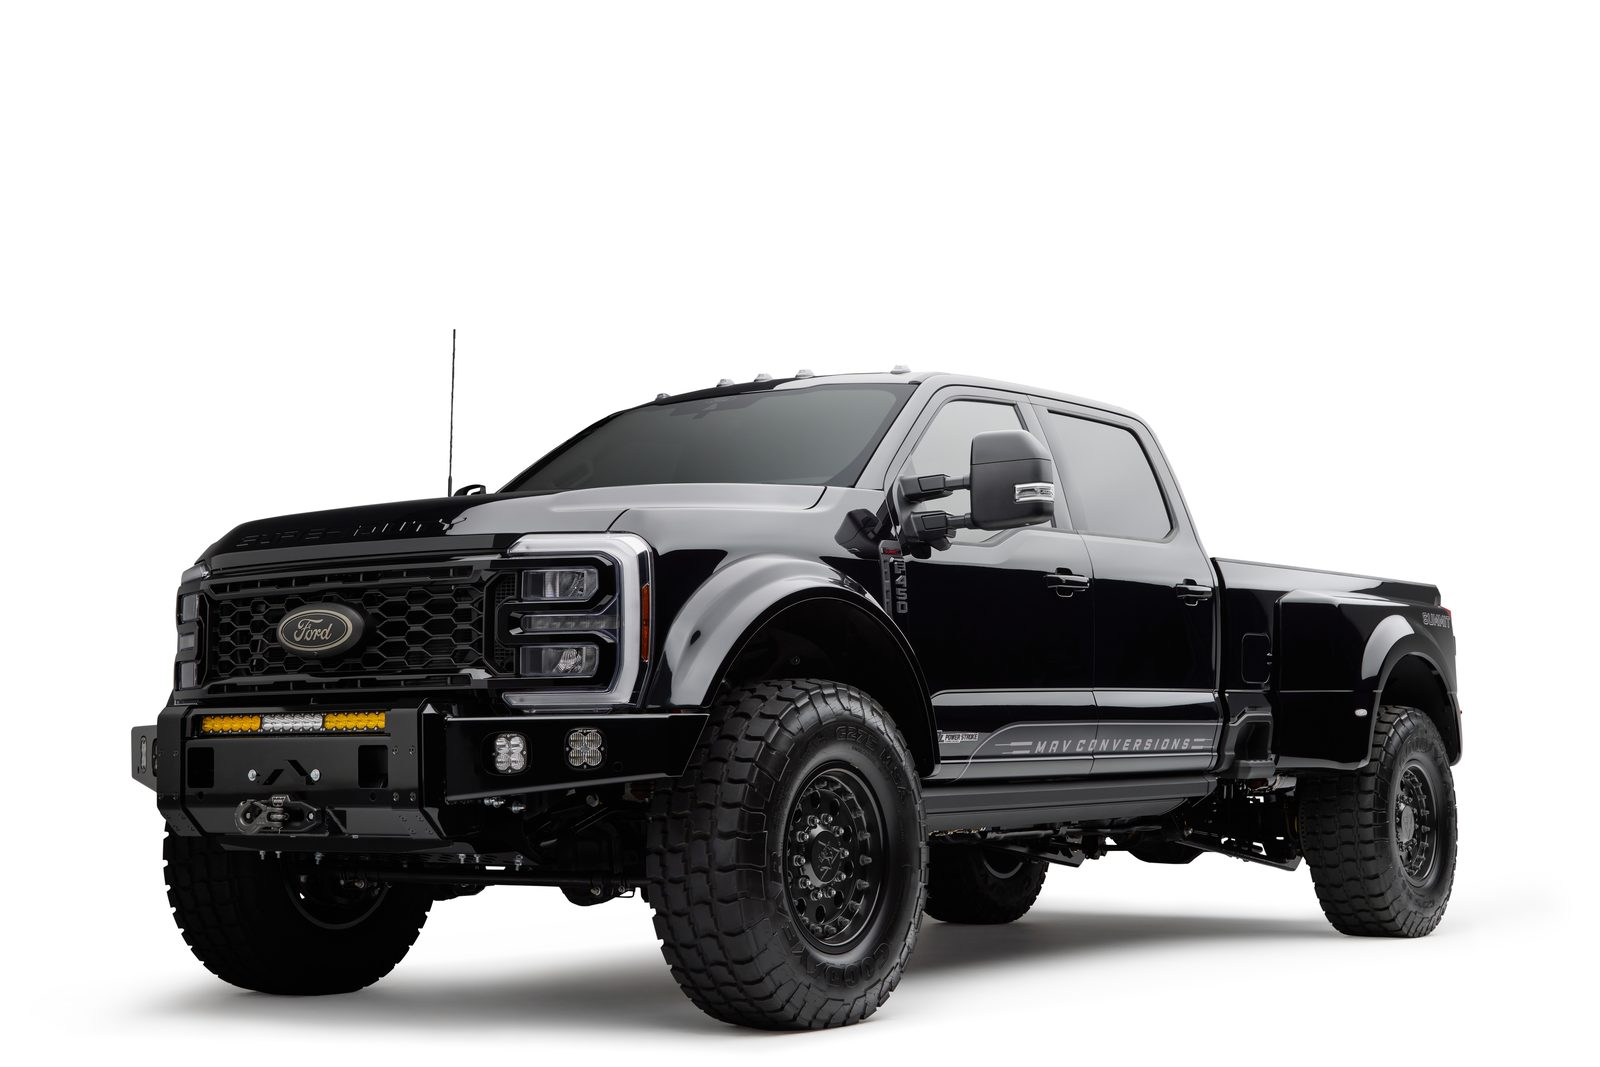
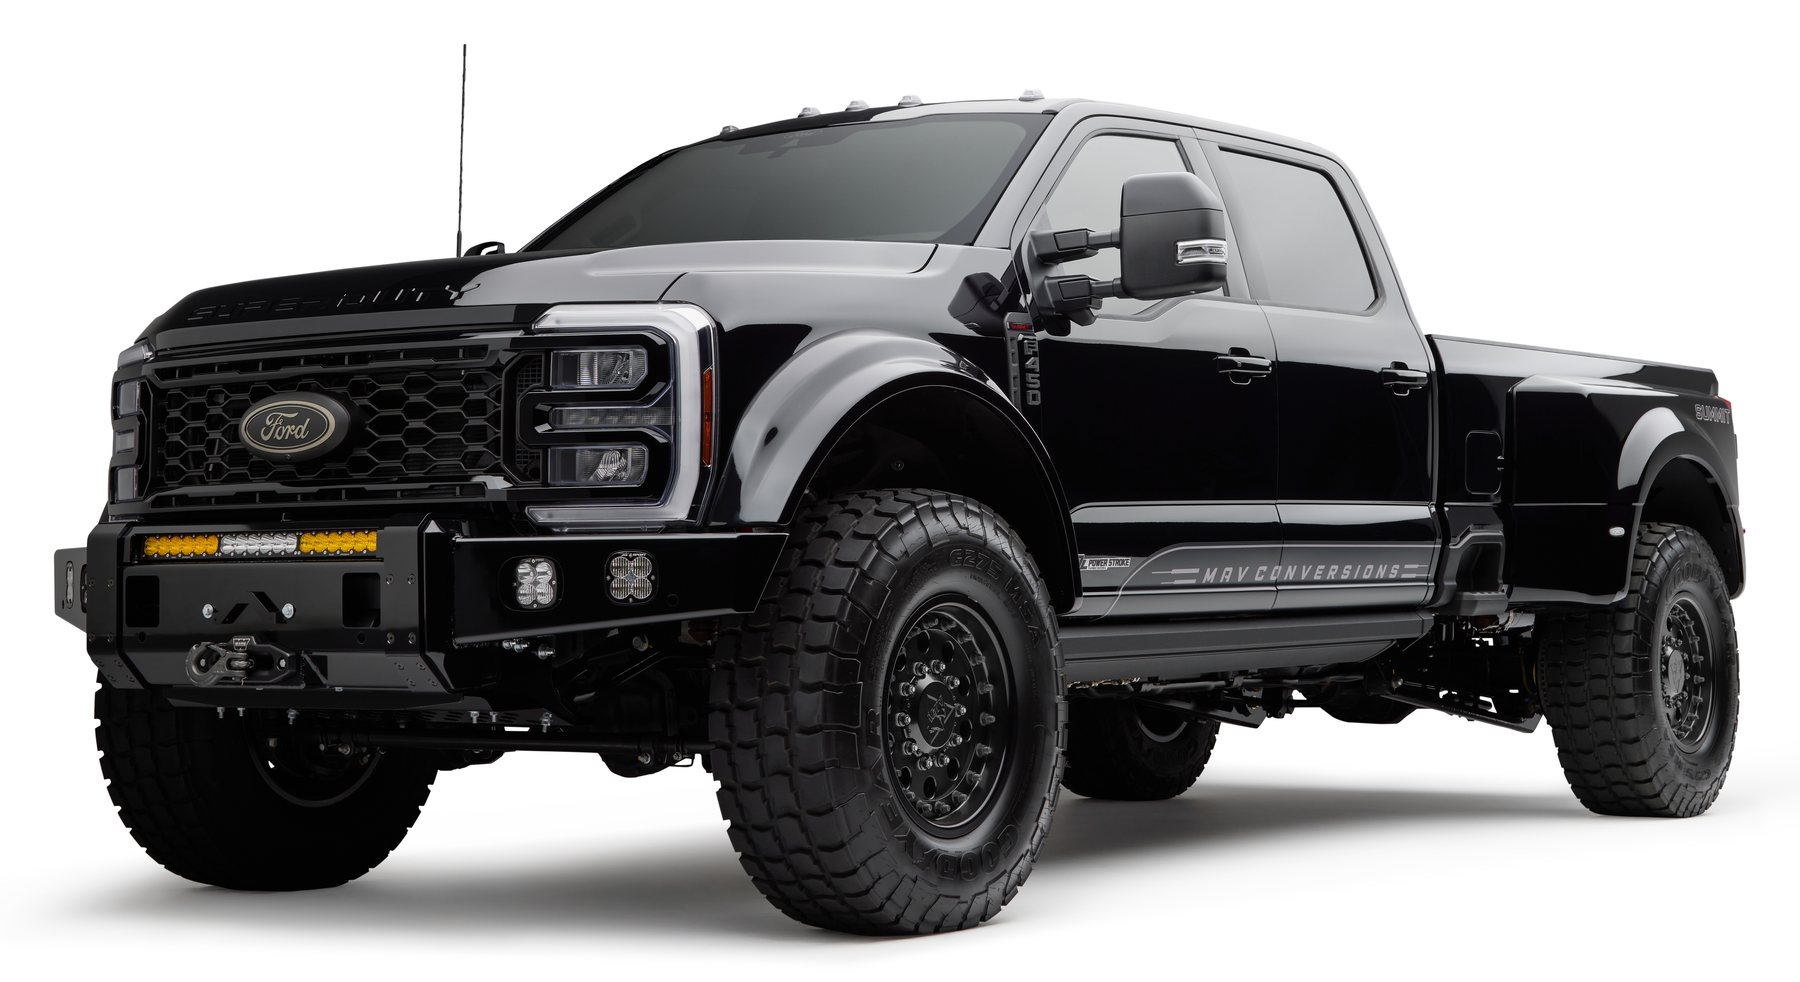
Crop the photographs to the truck
The truck was floating in white because most of that white was inside the
JPEG. Measured, the subject was only 40-62% of each file -- the rest sweep,
and most of it an empty band above the roofline. The stage scales the whole
image to fit, so every one of those pixels was stage the truck did not get:
on a wide window a 3:2 file fits by height and leaves a deep gutter down
both sides.

Each photograph is now cropped to its own content before resizing, found by
thresholding against the sweep, with 2.5% of air left round it and the tyre
shadow kept. The files come out 1.8 to 2.8 wide instead of a uniform 1.5,
the truck governs the shape, and the page supplies the white.

The truck now fills the full width of the stage in all three views, against
75-83% before, and uses the height far better with it. Still 0.7MB for the
six.

Two things went with it: a tighter gutter on the stage, since this page is
full-bleed and 40px of site margin either side is 80px the photograph does
not get, and no fixed frame shape on a phone -- the picture sets its own
height there, which takes the letterbox under it from 105px to nothing.

Also removes a stale media query. The previous sticky-stage layout left a
block sitting after .cfg-bill, outside the range the rewrite replaced, and
being later in the file it won: it forced the old 3:2 frame back on and set
display:block on a stage that needs to be a flex column. That is what was
still letterboxing the phone after the crop.

diff --git a/styles.css b/styles.css
@@ -893,7 +893,10 @@ body.lb-lock { overflow: hidden; }
   flex-direction: column;
   min-width: 0;
   min-height: 0;
-  padding: 18px var(--gut) 20px;
+  /* A tighter gutter than the rest of the site uses. This page is full-bleed
+     and the truck is the content; 40px of site margin either side is 80px the
+     photograph does not get. */
+  padding: 14px clamp(12px, 1.5vw, 26px) 16px;
 }
 .cfg-frame {
   position: relative;
@@ -1069,7 +1072,11 @@ body.lb-lock { overflow: hidden; }
      100vh split on a phone leaves a letterbox to answer questions through. */
   .cfg { grid-template-columns: 1fr; grid-template-rows: auto; height: auto; }
   .cfg-stage { padding: 10px var(--gut) 14px; }
-  .cfg-frame { flex: none; aspect-ratio: 3 / 2; }
+  /* No fixed shape here: the crops run from 1.8 to 2.8 and a 3:2 box would
+     letterbox every one of them. The picture sets its own height and the
+     truck gets the full width of the phone. */
+  .cfg-frame { flex: none; aspect-ratio: auto; }
+  .cfg-frame img { position: static; width: 100%; height: auto; }
   .cfg-rail { border-left: none; border-top: 1px solid var(--line); }
   .cfg-rail-body { overflow: visible; padding: 24px var(--gut) 24px; }
   .cfg-head h1 { font-size: 26px; }
@@ -1099,29 +1106,6 @@ body.lb-lock { overflow: hidden; }
 .cfg-bill .cfg-total .k, .cfg-bill .cfg-total .v { color: #fff; }
 .cfg-bill .cfg-fine { color: var(--muted-d); }
 
-@media (max-width: 1040px) {
-  /* One column: the truck on top, the questions under it. The stage stops
-     being sticky -- a picture pinned to the top of a phone screen leaves a
-     letterbox to answer questions through. */
-  .cfg { grid-template-columns: 1fr; }
-  .cfg-stage { position: static; max-height: none; display: block; }
-  .cfg-frame { aspect-ratio: 3 / 2; }
-  .cfg-rail { margin-top: 6px; }
-  /* The bar leaves the rail and spans the window, so the total is in view
-     on a phone the same way it is on a desktop. */
-  .cfg-bar {
-    position: fixed; inset: auto 0 0 0; margin: 0;
-    padding: 11px var(--gut); border-top: 1px solid var(--line);
-    box-shadow: 0 -6px 24px rgba(0, 0, 0, .1);
-  }
-  .cfg-bar .v { font-size: 21px; }
-  /* Clear the bar, so the last option is reachable. */
-  .cfg-sum { padding-bottom: 78px; }
-}
-@media (max-width: 620px) {
-  .cfg-list.cfg-two { grid-template-columns: 1fr; }
-  .cfg-incl { grid-template-columns: 1fr; }
-}
 
 /* A select inherits none of the above on its own, and a native dropdown on a
    dark panel renders light-on-light in several browsers. */
